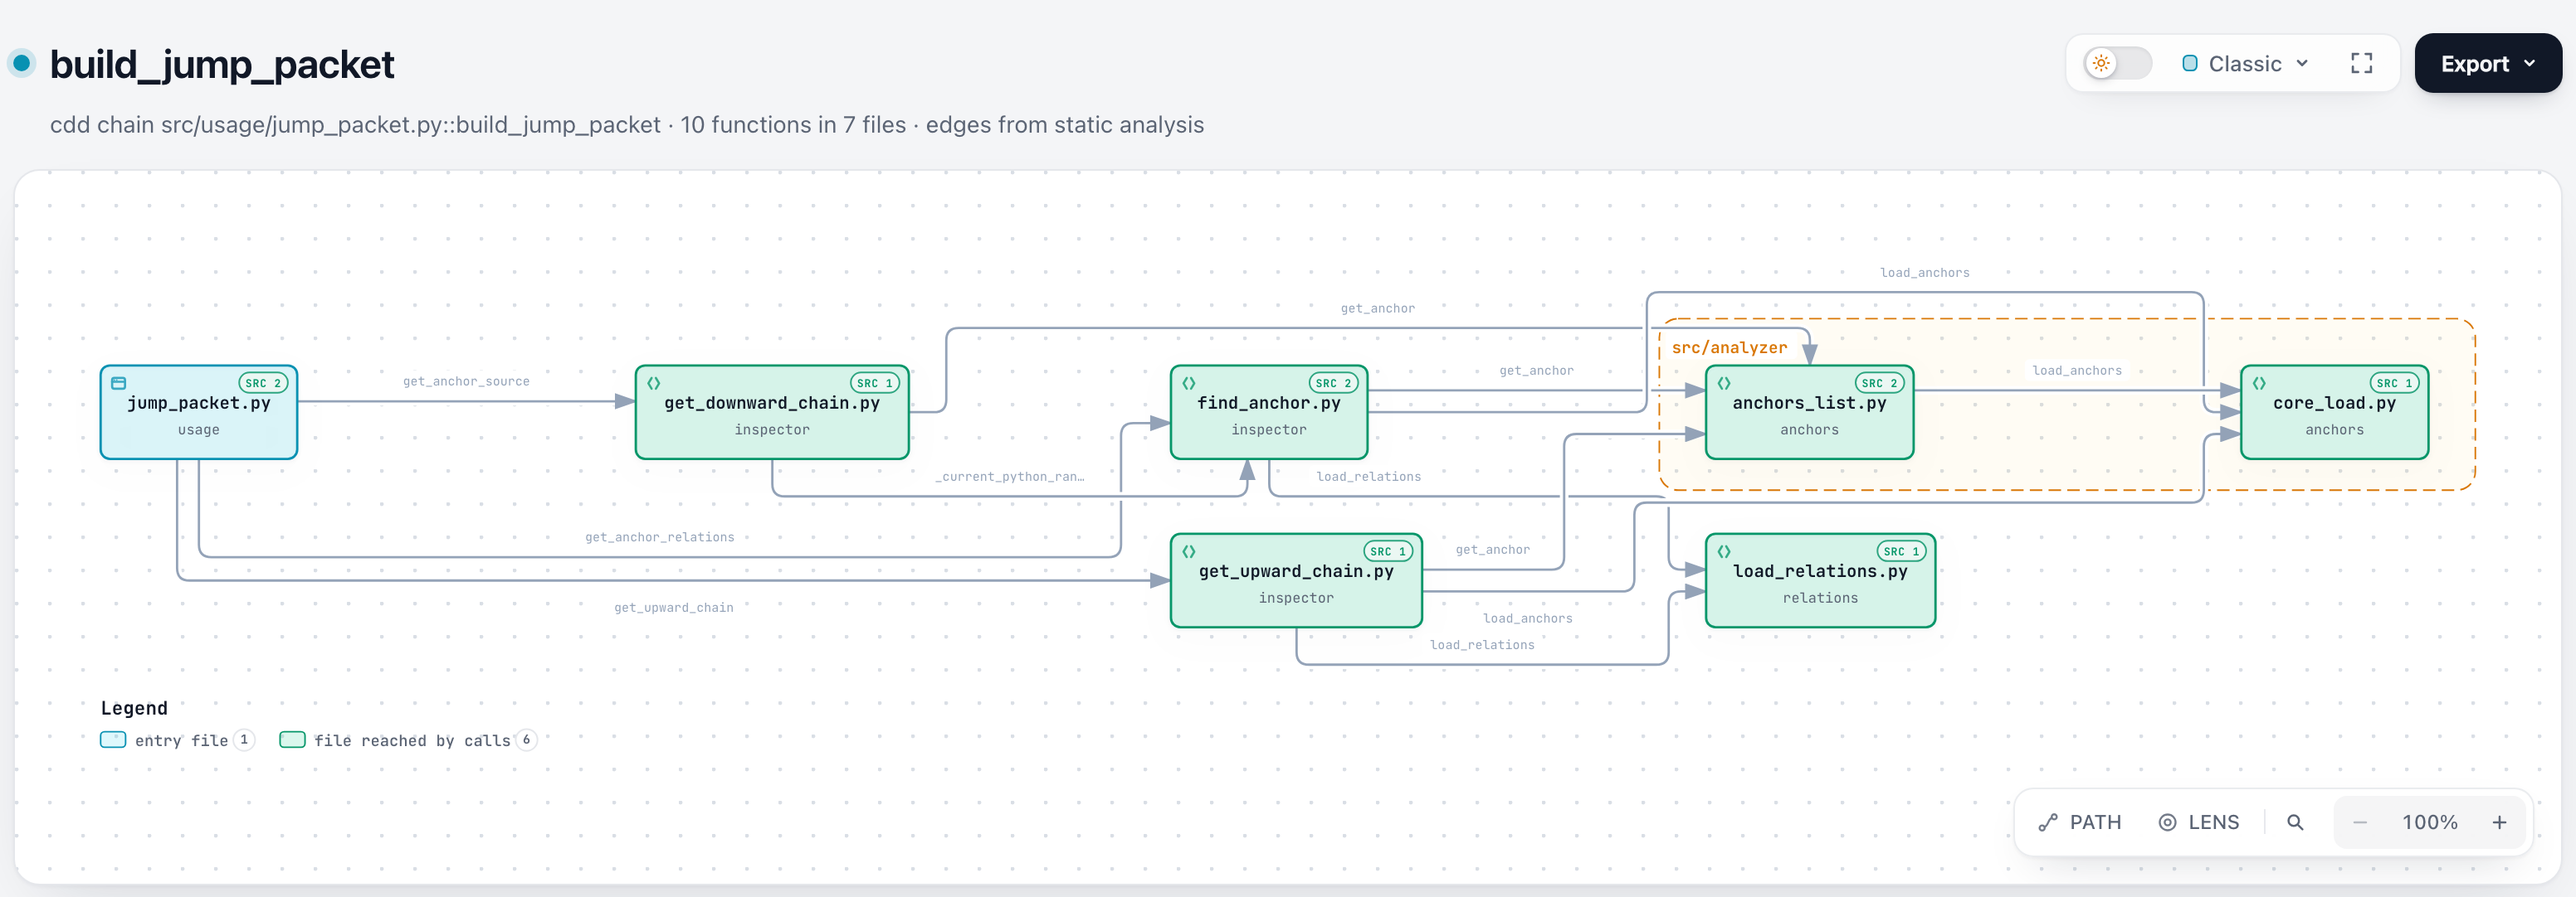
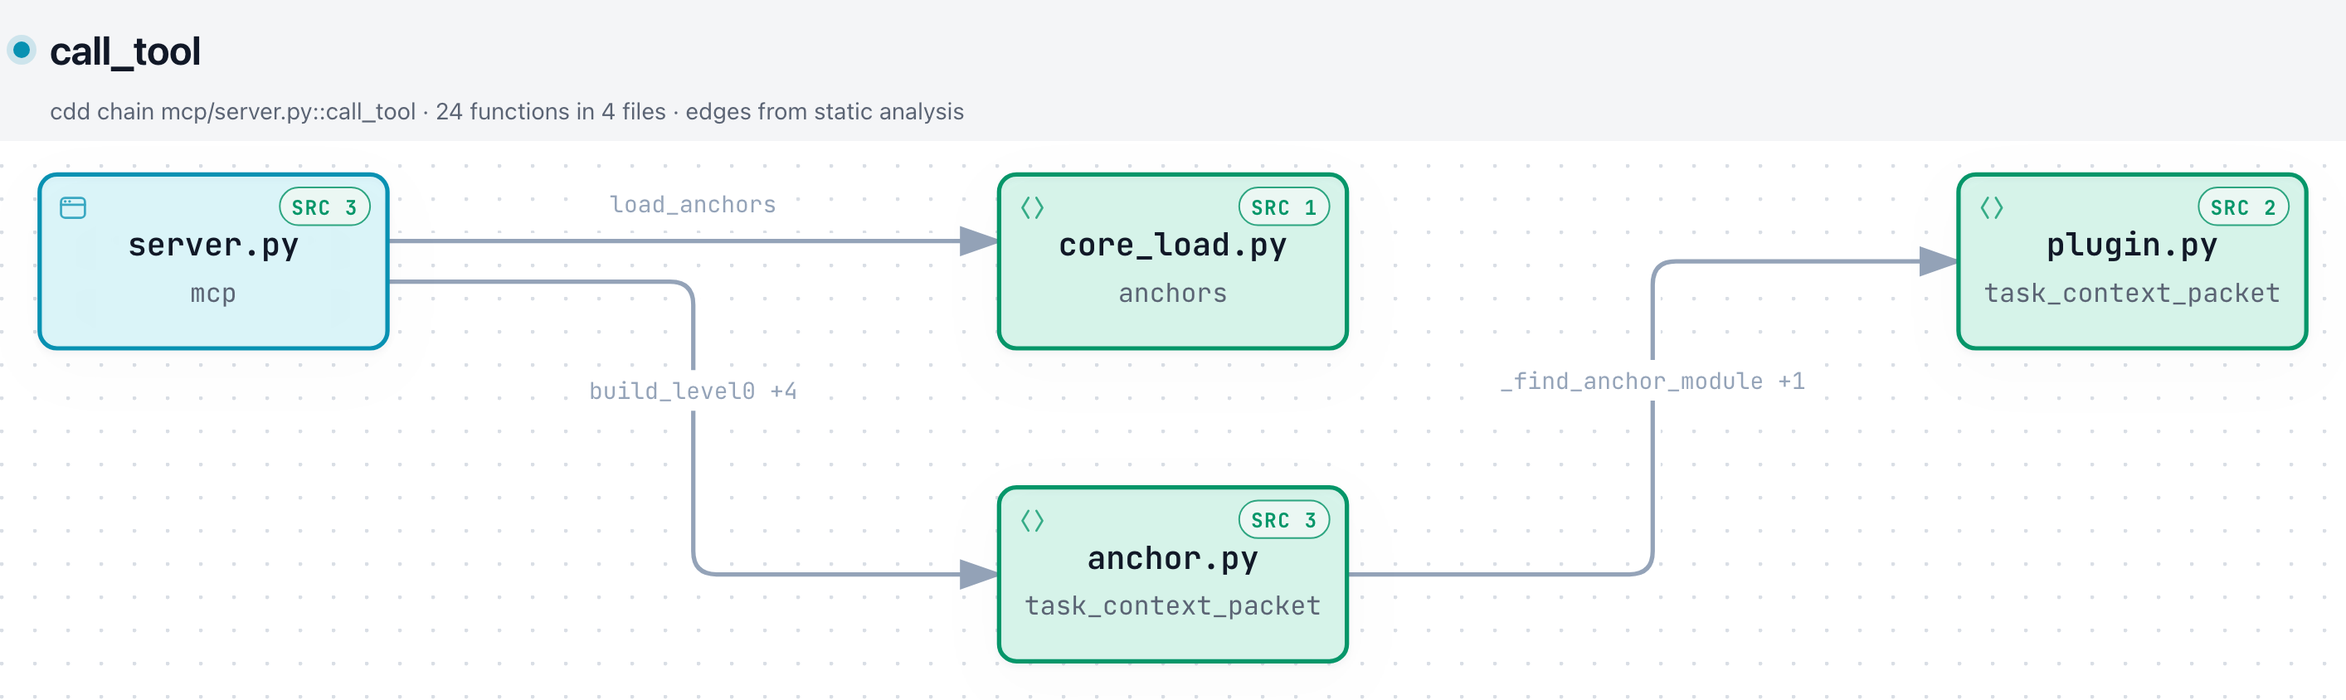
docs(cdd): README hero is the call_tool chain, cropped to what can be read
At GitHub's README width the 5-column build_jump_packet diagram shrank
to about a third: file names barely legible, edge labels not at all,
and the frame carried empty canvas, the legend and archify's toolbar.
The hero is now `cdd archify mcp/server.py::call_tool`: 4 files, 3
edges, no crossings, the same 24 functions as the 55-line chain further
down (linked through an explicit #call-chain anchor, which GitHub's
renderer keeps). The image is the title block plus the bounding box of
nodes, routes and labels, light and dark. Checked through GitHub's own
markdown renderer at README width in both themes.

diff --git a/README.md b/README.md
@@ -6,7 +6,7 @@ English | [简体中文](README.zh-CN.md)
 <p align="center">
   <picture>
     <source media="(prefers-color-scheme: dark)" srcset="assets/hero-cdd-archify-dark.png" />
-    <img src="assets/hero-cdd-archify-light.png" alt="cdd archify output: build_jump_packet traced across 7 files, every edge a call found by static analysis, every node linked to its source lines" width="960" />
+    <img src="assets/hero-cdd-archify-light.png" alt="cdd archify output: mcp/server.py::call_tool traced across 4 files, every edge a call found by static analysis, every node linked to its source lines" width="960" />
   </picture>
 </p>
 
@@ -17,7 +17,7 @@ English | [简体中文](README.zh-CN.md)
   <a href="#install-in-one-line"><img src="https://img.shields.io/badge/skills_for-Claude_Code_%7C_Codex_%7C_Cursor_%7C_OpenCode-7C3AED?style=flat-square" alt="Agent skills for Claude Code, Codex, Cursor and OpenCode" /></a>
 </p>
 
-The picture above is `cdd archify src/usage/jump_packet.py::build_jump_packet` run on this repository. CodeDendrite parsed the code, followed the calls from that function, grouped them by file and handed the result to [archify](https://github.com/tt-a1i/archify) to draw. Nobody placed an arrow by hand: each one is a call the index found, labelled with the function it calls. Each `SRC` marker opens the exact lines at the pinned commit.
+The picture above is `cdd archify mcp/server.py::call_tool` run on this repository. It is the MCP server's entry point: the same 24 functions as the [55-line chain below](#call-chain), grouped by the 4 files they live in, and drawn by [archify](https://github.com/tt-a1i/archify). Nobody placed an arrow by hand: each one is a call the index found, labelled with the function it calls. Each `SRC` marker opens the exact lines at the pinned commit.
 
 <a id="install-in-one-line"></a>
 
@@ -121,6 +121,8 @@ The project that `--root` points to must have been indexed with `cdd rebuild`.
 Dependency direction: `scanner` → `analyzer` → `api` → `usage` / `view`. `scanner` and `analyzer` import nothing above them. One reverse dependency remains: `api/query/cmd_chain.py` imports `view.relations`, `view.timeline`, `view.code_map` and `usage.profiles.yaml_profile` inside functions (4 imports). Modules that used to sit in the wrong layer have moved, so `scan_project`, `debug_workflow`, `generate_module_tree`, `smart_analyze` and the navigator (`start`, `jump`, …) are imported from `usage`, and `generate_mermaid_for_project` from `view.html.graph`, not from `api`.
 
 ---
+
+<a id="call-chain"></a>
 
 ## From entry point to implementation
 

diff --git a/README.zh-CN.md b/README.zh-CN.md
@@ -6,7 +6,7 @@
 <p align="center">
   <picture>
     <source media="(prefers-color-scheme: dark)" srcset="assets/hero-cdd-archify-dark.png" />
-    <img src="assets/hero-cdd-archify-light.png" alt="cdd archify 输出：build_jump_packet 跨 7 个文件的调用链，每条边都来自静态分析，每个节点都链接到源码行" width="960" />
+    <img src="assets/hero-cdd-archify-light.png" alt="cdd archify 输出：mcp/server.py::call_tool 跨 4 个文件的调用链，每条边都来自静态分析，每个节点都链接到源码行" width="960" />
   </picture>
 </p>
 
@@ -17,7 +17,7 @@
   <a href="#一行安装然后交给-agent"><img src="https://img.shields.io/badge/skills_for-Claude_Code_%7C_Codex_%7C_Cursor_%7C_OpenCode-7C3AED?style=flat-square" alt="支持 Claude Code、Codex、Cursor、OpenCode 的 agent skill" /></a>
 </p>
 
-上面这张图是在本仓库上运行 `cdd archify src/usage/jump_packet.py::build_jump_packet` 的结果：CodeDendrite 解析代码，从这个函数顺着调用往下走，按文件聚合，交给 [archify](https://github.com/tt-a1i/archify) 绘制。没有一条箭头是手画的，每一条都是索引找到的调用，标签是被调用的函数名；点 `SRC` 标记能打开钉在该 commit 上的源码行。
+上面这张图是在本仓库上运行 `cdd archify mcp/server.py::call_tool` 的结果。它是 MCP 服务的入口，和[下文那条 55 行 chain](#call-chain) 是同样的 24 个函数，按所在的 4 个文件聚合，交给 [archify](https://github.com/tt-a1i/archify) 绘制。没有一条箭头是手画的，每一条都是索引找到的调用，标签是被调用的函数名；点 `SRC` 标记能打开钉在该 commit 上的源码行。
 
 ### 一行安装，然后交给 agent
 
@@ -119,6 +119,8 @@ pip install '.[test]'         # 跑测试需要 pytest
 依赖方向：`scanner` → `analyzer` → `api` → `usage` / `view`。`scanner`、`analyzer` 不 import 任何上层。剩一处反向依赖：`api/query/cmd_chain.py` 在函数里 import 了 `view.relations`、`view.timeline`、`view.code_map` 和 `usage.profiles.yaml_profile`（共 4 处）。放错层的模块已经挪走，所以 `scan_project`、`debug_workflow`、`generate_module_tree`、`smart_analyze` 和导航器（`start`、`jump` …）从 `usage` 导入，`generate_mermaid_for_project` 从 `view.html.graph` 导入，不再从 `api` 导入。
 
 ---
+
+<a id="call-chain"></a>
 
 ## 入口 → 打穿
 
